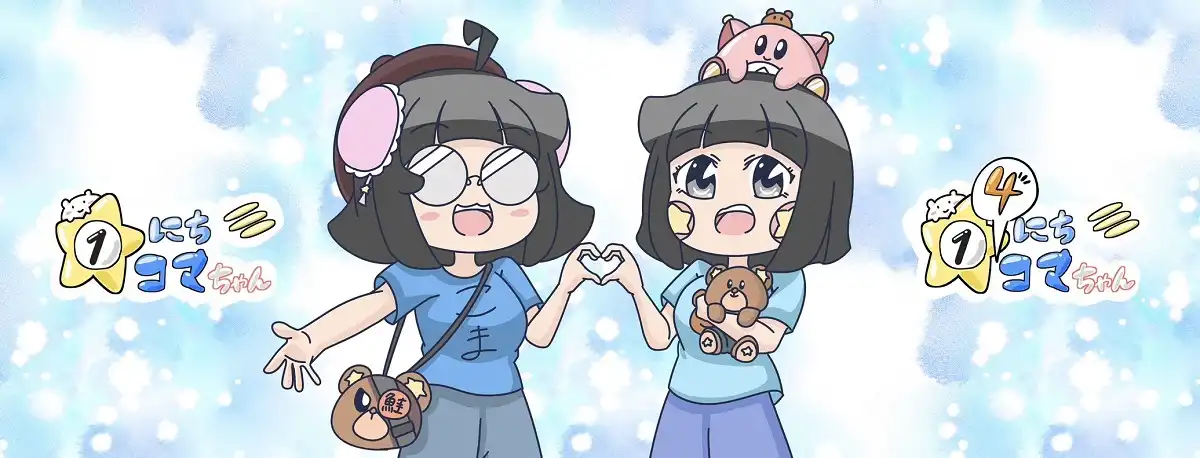
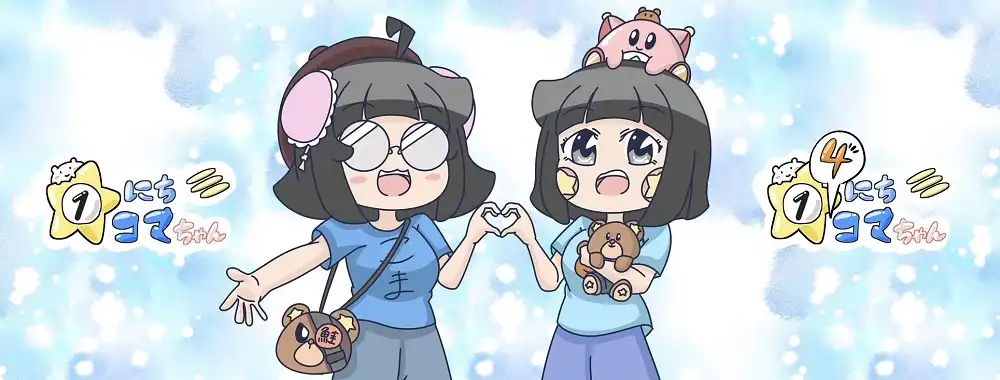
トップ画像軽量化

diff --git a/pages/index.vue b/pages/index.vue
@@ -1,6 +1,6 @@
 <template>
   <div>
-    <img :src="require(`@/assets/top.webp`)" class="mb-3" width="2048" heigt="800" alt="#1にち1コマちゃん" />
+    <img :src="require(`@/assets/top.webp`)" class="mb-3" width="1000" heigt="380" alt="#1にち1コマちゃん" />
 
     <div class="select is-small mb-3 ml-2">
       <select v-model="massKoma" @change="onChangeKoma">
